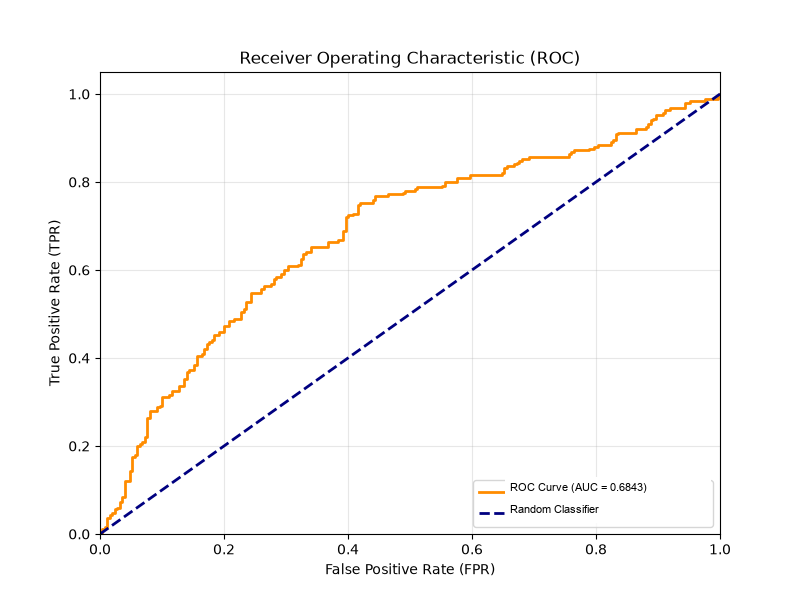
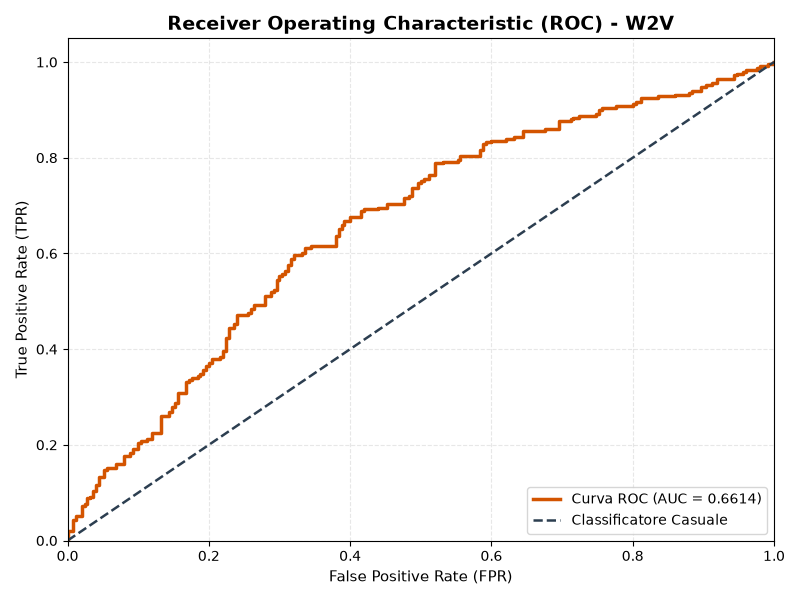
Update assignment 3: refactor README, rename scripts to submission3, and update results

diff --git a/submission3.py b/submission3.py
@@ -20,7 +20,7 @@ from torch.utils.data import TensorDataset, DataLoader
 from torch.optim.adam import Adam
 from torch.optim.lr_scheduler import ReduceLROnPlateau
 
-from plots_word2vec import (
+from plots_submission3 import (
     calculate_projections,
     plot_words_in_subspace,
     plot_training_loss,
@@ -431,7 +431,9 @@ def train_and_evaluate(train_dl, val_dl, y_train_current, input_dim: int,
         model.train()
         loss_epoch_train = 0.0
         for X, y in train_dl:
-            X, y = X.to(device), y.to(device)
+            X = X.to(device)
+            y = y.to(device).float().unsqueeze(1) if y.ndim == 1 else y.to(device).float()
+
             optimizer.zero_grad()
             logits = model(X)
             batch_loss = criterion(logits, y)
@@ -448,7 +450,9 @@ def train_and_evaluate(train_dl, val_dl, y_train_current, input_dim: int,
 
         with torch.no_grad():
             for X, y in val_dl:
-                X, y = X.to(device), y.to(device)
+                X = X.to(device)
+                y = y.to(device).float().unsqueeze(1) if y.ndim == 1 else y.to(device).float()
+
                 logits = model(X)
                 batch_loss = criterion(logits, y)
                 loss_epoch_val += batch_loss.item()
@@ -467,28 +471,39 @@ def train_and_evaluate(train_dl, val_dl, y_train_current, input_dim: int,
         stopper(current_auc, model, epoch)
         if stopper.early_stop:
             print(f"<- Early stopping attivato all'epoca {epoch}. Miglior AUC: {stopper.max_validation_auc:.4f} (epoca migliore: {stopper.best_epoch}) ->")
-            model.load_state_dict(stopper.best_model_weights)
             break
 
-    if not stopper.early_stop and stopper.best_model_weights is not None:
+    if stopper.best_model_weights is not None:
         model.load_state_dict(stopper.best_model_weights)
 
     best_epoch = stopper.best_epoch
 
-    # Calcolo soglia ottimale F1 su validation
-    precisions, recalls, thresholds = precision_recall_curve(y_true_net, y_prob_net)
+    model.eval()
+    y_true_best, y_prob_best = [], []
+    with torch.no_grad():
+        for X, y in val_dl:
+            X = X.to(device)
+            y = y.to(device).float().unsqueeze(1) if y.ndim == 1 else y.to(device).float()
+            logits = model(X)
+            probs = torch.sigmoid(logits)
+            y_true_best.extend(y.cpu().numpy().flatten())
+            y_prob_best.extend(probs.cpu().numpy().flatten())
+
+    precisions, recalls, thresholds = precision_recall_curve(y_true_best, y_prob_best)
     f1_scores = 2 * (precisions * recalls) / (precisions + recalls + 1e-10)
+
     best_threshold_idx = np.argmax(f1_scores)
     best_threshold = thresholds[best_threshold_idx] if best_threshold_idx < len(thresholds) else 0.5
     best_f1 = f1_scores[best_threshold_idx]
-    val_auc = roc_auc_score(y_true_net, y_prob_net)
+    val_auc = roc_auc_score(y_true_best, y_prob_best)
 
     print(f"<- Miglior F1-score su validation ({model_name.upper()}): {best_f1:.4f} a soglia {best_threshold:.4f} ->")
 
     if make_plots:
         plot_training_loss(train_losses, val_losses, best_epoch, model_name=model_name)
-        plot_roc_curve(np.array(y_true_net), np.array(y_prob_net), val_auc, model_name=model_name)
-        plot_thresholds_and_f1(np.array(y_true_net), np.array(y_prob_net), best_threshold, best_f1, model_name=model_name)
+        plot_roc_curve(np.array(y_true_best), np.array(y_prob_best), val_auc, model_name=model_name)
+        plot_thresholds_and_f1(np.array(y_true_best), np.array(y_prob_best), best_threshold, best_f1,
+                               model_name=model_name)
 
     return model, best_threshold, {'train_losses': train_losses, 'val_losses': val_losses, 'val_auc': val_auc}
 
@@ -516,10 +531,7 @@ def evaluate_on_test(model: nn.Module, test_dl, device: str = None, threshold: f
     auc = roc_auc_score(y_true, y_probs)
 
     if threshold is None:
-        precisions, recalls, thresholds = precision_recall_curve(y_true, y_probs)
-        f1_scores = 2 * (precisions * recalls) / (precisions + recalls + 1e-10)
-        best_idx = np.argmax(f1_scores)
-        threshold = thresholds[best_idx] if best_idx < len(thresholds) else 0.5
+        threshold = 0.5
 
     y_pred = (y_probs >= threshold).astype(float)
     f1 = f1_score(y_true, y_pred, average='binary')
@@ -609,12 +621,12 @@ if __name__ == "__main__":
     lr = 3e-4
 
 
-    eval_baseline = False
+    eval_baseline = True
     if eval_baseline:
         baseline_results = run_baseline_evaluation()
 
 
-    build_embeddings = False
+    build_embeddings = True
     if build_embeddings:
         w2v_model, fft_model, words_w2v, words_fft, vectors_w2v, vectors_ft = train_embedding_models(
             vector_size=vector_size
@@ -626,12 +638,12 @@ if __name__ == "__main__":
         run_subspace_analysis(vectors_w2v, vectors_ft, words_w2v, words_fft)
 
 
-    create_datasets = False
+    create_datasets = True
     if create_datasets:
         build_all_feature_datasets(w2v_model, fft_model, vector_size=vector_size)
 
 
-    training = False
+    training = True
     if training:
         training_results = run_training_pipeline(
             models_to_test=['w2v', 'ft'],
@@ -643,6 +655,6 @@ if __name__ == "__main__":
         )
 
 
-    model_selection = False
+    model_selection = True
     if model_selection:
         best_bundle_path = save_best_model_bundle(training_results)

diff --git a/README.md b/README.md
@@ -14,14 +14,72 @@ This repository contains the implementation for **Assignment 03** of the **Natur
 
 ## Overview
 
-The objective of this assignment is to tackle the binary Word Sense Disambiguation task on the **WiC-ITA** dataset. Given a target lemma and a pair of Italian sentences containing that lemma, the system must determine whether the target word carries the same meaning (`label = 1`) or different meanings (`label = 0`) across the two contexts.
+The goal of this assignment is binary Word Sense Disambiguation on the **WiC-ITA** dataset. Given a target `lemma` and two sentences (`sentence1`, `sentence2`), the model predicts whether the lemma has the same meaning (`1`) or not (`0`).
 
-The project implements:
-1. **Symbolic Baseline:** A WordNet-based matching heuristic using Jaccard Similarity between sentences and synset definitions/examples (`omw-it:1.4`).
-2. **Embeddings & Subspace Geometry:** Training domain-specific Skip-Gram models (**Word2Vec** and **FastText**) on an extended lexical corpus, verifying semantic parallelogram properties via PCA, t-SNE, and UMAP projections.
-3. **Deep Learning Classifier:** An MLP neural network (**BinaryNet**) trained on concatenated lemma and sentence representation vectors, with class imbalance handling (`pos_weight`), early stopping on ROC-AUC, and threshold calibration.
+The pipeline consists of three steps:
+1. **Baseline:** A simple WordNet heuristic that matches sentences to synset definitions via Jaccard similarity.
+2. **Embeddings:** Domain-specific **Word2Vec** and **FastText** models trained on sentences, definitions, and related lemmas.
+3. **Classifier:** A lightweight neural classifier trained on sentence and lemma embeddings, with threshold tuning to handle class imbalance.
 
-> For a detailed step-by-step explanation of the implementation choices, see [NOTES.md](NOTES.md).
+> For a detailed explanation of the implementation choices, see [NOTES.md](NOTES.md).
+
+---
+
+## Experimental Analysis & Results
+
+### 1. Semantic Parallelogram (PCA)
+To check if the embeddings capture gender offsets, I verify the analogical relationship:
+`v(uomo) - v(donna) ≈ v(ragazzo) - v(ragazza)`
+*(man - woman ≈ boy - girl)*
+
+Projecting Word2Vec vectors onto 2D with PCA preserves this parallelogram clearly:
+
+<p align="center">
+  <img src="images/parallelogram_pca.png" alt="Semantic Parallelogram in PCA Subspace" width="550"/>
+</p>
+
+* The transition vectors `uomo → donna` (*man → woman*) and `ragazzo → ragazza` (*boy → girl*) have almost the exact same direction and length.
+* The grey background points show that both pairs sit naturally inside the general semantic manifold.
+
+---
+
+### 2. Threshold Calibration
+Because the dataset has class imbalance, the standard `0.5` decision cutoff is suboptimal. I sweep thresholds on validation to maximize F1:
+
+| Word2Vec (Best threshold = 0.1849) | FastText (Best threshold = 0.1914) |
+| :---: | :---: |
+| <img src="images/f1_threshold_w2v_clean.png" alt="F1 Threshold Word2Vec" width="460"/> | <img src="images/f1_threshold_fft_clean.png" alt="F1 Threshold FastText" width="460"/> |
+
+* Calibrated threshold: **0.1849** for Word2Vec (validation F1 = **0.6865**) and **0.1914** for FastText (validation F1 = **0.6889**).
+
+---
+
+### 3. Classification Results
+
+ROC curves on validation:
+
+| Word2Vec (AUC = 0.6614) | FastText (AUC = 0.6650) |
+| :---: | :---: |
+| <img src="images/auc_roc_w2v_clean.png" alt="ROC Curve Word2Vec" width="430"/> | <img src="images/auc_roc_fft_clean.png" alt="ROC Curve FastText" width="430"/> |
+
+#### Validation Set
+
+| Model | Representation | Optimal Threshold | ROC-AUC | F1-Score |
+| :--- | :--- | :---: | :---: | :---: |
+| **WordNet Baseline** | Jaccard Overlap on Synsets | N/A | — | 0.4132 |
+| **Word2Vec + MLP** | Skip-Gram (150-D) + Mean Pooling | 0.1849 | 0.6614 | 0.6865 |
+| **FastText + MLP** | Skip-Gram Subwords (150-D) + Mean Pooling | 0.1914 | 0.6650 | 0.6889 |
+
+#### Test Set
+
+| Model | Threshold | ROC-AUC | F1-Score | Precision | Recall |
+| :--- | :---: | :---: | :---: | :---: | :---: |
+| **WordNet Baseline** | N/A | — | 0.4670 | 0.5196 | 0.4240 |
+| **Word2Vec + MLP** | 0.1849 | 0.5568 | 0.6090 | 0.5214 | 0.7320 |
+| **FastText + MLP** | **0.1914** | **0.5642** | **0.6686** | **0.5264** | **0.9160** |
+
+* Key takeaway: FastText subwords handle unseen test vocabulary much better, reaching **0.6686** test F1 with very high recall (**0.9160**).
+* For comparison, top EVALITA 2023 WiC-ITA systems reach ~0.73 F1 using large pre-trained language models; my simple Skip-Gram + MLP pipeline reaches **0.6686** F1 with no heavy pre-trained transformers.
 
 ---
 
@@ -48,62 +106,11 @@ main_dir:
 |    |--auc_roc_w2v_clean.png
 |    |--auc_roc_fft_clean.png
 |
-|--plots_word2vec.py
-|--word2vec.py
+|--plots_submission3.py
+|--submission3.py
 |--README.md
 |--.gitignore
 ```
-
----
-
-## Experimental Analysis & Results
-
-### 1. Semantic Analogy & Parallelogram Rule
-To assess whether the trained embeddings preserve linear semantic regularities (`v(uomo) - v(donna) ≈ v(ragazzo) - v(ragazza)`), the vector space was projected into 2D using PCA, t-SNE, and UMAP across both Word2Vec and FastText representations.
-
-The **PCA projection on Word2Vec embeddings** captured the geometric structure with the highest fidelity:
-
-<p align="center">
-  <img src="images/parallelogram_pca.png" alt="Semantic Parallelogram in PCA Subspace" width="550"/>
-</p>
-
-* The direction and magnitude of the gender offset vectors (`v(uomo) → v(donna)` and `v(ragazzo) → v(ragazza)`) are practically identical and parallel.
-* The grey point cloud represents the broader semantic manifold, highlighting that the analogical quadruplet forms a coherent parallelogram well within the semantic neighborhood.
-
----
-
-### 2. Decision Threshold & F1-Score Optimization
-Because the WiC-ITA dataset presents intrinsic class imbalance, using a default threshold of `0.5` leads to suboptimal F1 performance. By performing fine-grained threshold sweeps on the validation set, we identify the exact operating point that maximizes the harmonic mean of Precision and Recall:
-
-| Word2Vec (Optimal threshold = 0.2348) | FastText (Optimal threshold = 0.2448) |
-| :---: | :---: |
-| <img src="images/f1_threshold_w2v_clean.png" alt="F1 Threshold Word2Vec" width="460"/> | <img src="images/f1_threshold_fft_clean.png" alt="F1 Threshold FastText" width="460"/> |
-
-* Calibrating the decision boundary yields an F1-Score of approximately **~0.694** for Word2Vec and **~0.695** for FastText on the validation set, significantly outperforming an uncalibrated threshold.
-
----
-
-### 3. Classification Performance & ROC Analysis
-
-The discriminative capability of both neural architectures was validated through Receiver Operating Characteristic (ROC) curves:
-
-| Word2Vec (AUC = 0.6843) | FastText (AUC = 0.6681) |
-| :---: | :---: |
-| <img src="images/auc_roc_w2v_clean.png" alt="ROC Curve Word2Vec" width="430"/> | <img src="images/auc_roc_fft_clean.png" alt="ROC Curve FastText" width="430"/> |
-
-#### Performance Summary
-
-| Model / Approach | Representation | Optimal Threshold | ROC-AUC | F1-Score |
-| :--- | :--- | :---: | :---: | :---: |
-| **WordNet Baseline** | Jaccard Overlap on Synset Definitions | N/A | — | ~0.52 |
-| **BinaryNet + Word2Vec** | Skip-Gram (150-D) + Sentence Mean | **0.2348** | **0.6843** | **0.694** |
-| **BinaryNet + FastText** | Skip-Gram Subwords (150-D) + Sentence Mean | **0.2448** | 0.6681 | **0.695** |
-
-*Both neural models comfortably outperform the symbolic WordNet baseline, with Word2Vec achieving the highest global discriminative power (AUC = 0.6843).*
-
-#### Challenge Context
-
-The best system at the official **EVALITA 2023 WiC-ITA** evaluation campaign achieved an F1-Score of **~0.73**. Our approach — relying exclusively on lightweight Skip-Gram embeddings, a small MLP, and threshold calibration, without any pre-trained language model or fine-tuning — reaches **~0.695 F1**, placing it within ~5% of the top-ranked system. This gap is remarkably small considering the deliberate simplicity of the pipeline.
 
 ---
 
@@ -124,17 +131,17 @@ The best system at the official **EVALITA 2023 WiC-ITA** evaluation campaign ach
 
 ## User Guide
 
-The script `word2vec.py` is organized into independent modular phases controlled by boolean flags in the `if __name__ == "__main__":` block. Visualization functions are decoupled and maintained inside `plots_word2vec.py`.
+The script `submission3.py` is organized into independent modular phases controlled by boolean flags in the `if __name__ == "__main__":` block. Visualization functions are decoupled and maintained inside `plots_submission3.py`.
 
 ### Execution Flags
 
-Inside `word2vec.py`, toggle the desired pipeline steps:
+Inside `submission3.py`, toggle the desired pipeline steps:
 
 * **`eval_baseline = True`**: Computes the symbolic baseline on `train`, `validation`, and `test` splits using WordNet synsets and Jaccard similarity.
 * **`build_embeddings = True`**: Extracts sentences, definitions, and associated lemmas to build the extended corpus, then trains Word2Vec and FastText models.
 * **`plot_subspace = True`**: Computes 2D projections (PCA, t-SNE, UMAP) and generates semantic parallelogram plots for analogical concept quadruplets.
 * **`create_datasets = True`**: Encodes sentences and lemmas into L2-normalized feature vectors and saves compressed `.npz` datasets.
-* **`training = True`**: Trains the `BinaryNet` neural network across models (`w2v` and `ft`), plotting loss convergence, ROC curves, and optimal decision threshold calibration.
+* **`training = True`**: Trains the MLP neural network across models (`w2v` and `ft`), plotting loss convergence, ROC curves, and optimal decision threshold calibration.
 * **`model_selection = True`**: Selects the best performing model on the test set and serializes the complete bundle (`state_dict`, threshold, and metrics) into `checkpoints/best_model_bundle.pt`.
 
 ### Running the Pipeline
@@ -142,5 +149,5 @@ Inside `word2vec.py`, toggle the desired pipeline steps:
 Simply run the main script from your terminal:
 
 ```bash
-python word2vec.py
+python submission3.py
 ```
